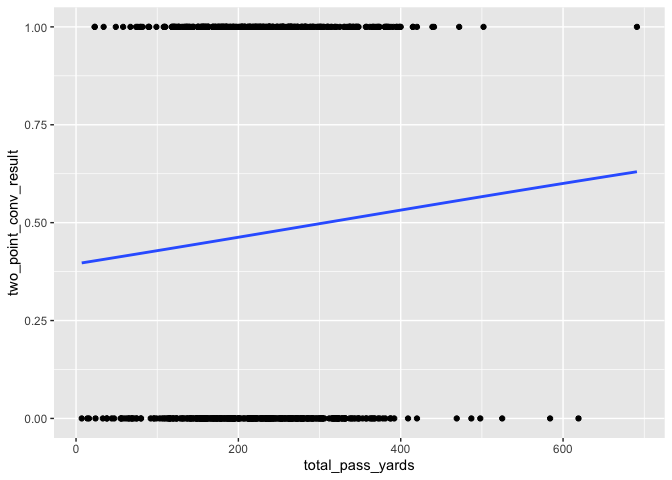
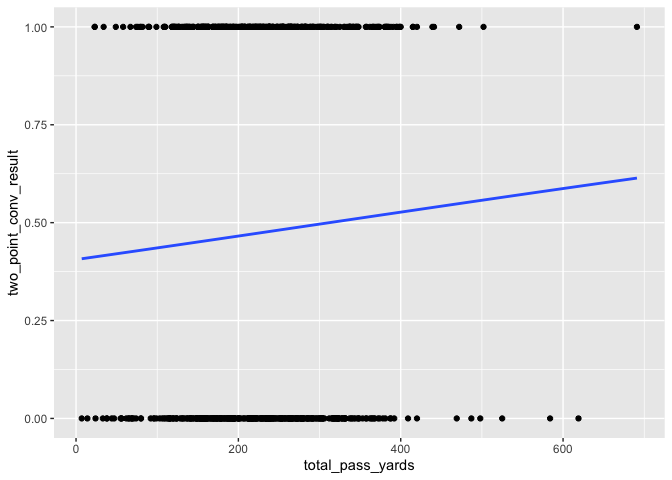
Added more viz to the modeling page, change expl_3 graph to be success rate instead of attempt

Changed region(s): [[0.4688, 0.3438, 0.9688, 0.4688], [0.125, 0.4688, 0.4375, 0.5625]]

diff --git a/logistic_mod.md b/logistic_mod.md
@@ -15,46 +15,40 @@ successful option than a pass play, we included numerous variables that
 quantify the team’s success with running the ball in the game up until
 the two-point conversion attempt. <br>
 
-    glm_twopt <- glm(two_point_conv_result ~ prop_runs_greater_than_2_yards + prop_passes_greater_than_2_yards + total_pass_yards + total_run_yards + num_runs + num_passes + avg_yds_per_play + completion_percentage + play_type + score_differential + avg_yards_per_run + avg_yards_per_pass, family = binomial(link= "logit"), data=two_points, na.action = na.exclude)
+    glm_twopt <- glm(two_point_conv_result ~ prop_runs_greater_than_2_yards + prop_passes_greater_than_2_yards + total_pass_yards + total_run_yards + num_runs + num_passes + avg_yds_per_play + completion_percentage + play_type + score_differential + avg_yards_per_run + avg_yards_per_pass + score_differential + game_seconds_remaining + third_down_conv_percentage, family = binomial(link= "logit"), data = two_points, na.action = na.exclude)
 
-    summary(glm_twopt)
+<br> We then used the stepAIC function to select the best predictors to
+use in our logistic regression model. This is the model that the stepAIC
+function selected.
+
+    summary(aic_glm)
 
     ## 
     ## Call:
-    ## glm(formula = two_point_conv_result ~ prop_runs_greater_than_2_yards + 
-    ##     prop_passes_greater_than_2_yards + total_pass_yards + total_run_yards + 
-    ##     num_runs + num_passes + avg_yds_per_play + completion_percentage + 
-    ##     play_type + score_differential + avg_yards_per_run + avg_yards_per_pass, 
-    ##     family = binomial(link = "logit"), data = two_points, na.action = na.exclude)
+    ## glm(formula = two_point_conv_result ~ total_pass_yards + num_passes + 
+    ##     play_type + game_seconds_remaining, family = binomial(link = "logit"), 
+    ##     data = two_points, na.action = na.exclude)
     ## 
     ## Deviance Residuals: 
     ##     Min       1Q   Median       3Q      Max  
-    ## -1.9193  -1.1011  -0.8825   1.1939   1.6745  
+    ## -1.6423  -1.0974  -0.8989   1.2077   1.5291  
     ## 
     ## Coefficients:
-    ##                                   Estimate Std. Error z value Pr(>|z|)   
-    ## (Intercept)                       0.940460   1.306441   0.720  0.47161   
-    ## prop_runs_greater_than_2_yards    0.497273   0.733317   0.678  0.49770   
-    ## prop_passes_greater_than_2_yards  0.549797   1.430611   0.384  0.70075   
-    ## total_pass_yards                  0.007786   0.004103   1.897  0.05776 . 
-    ## total_run_yards                   0.008572   0.005676   1.510  0.13103   
-    ## num_runs                         -0.033314   0.031230  -1.067  0.28610   
-    ## num_passes                       -0.051755   0.027959  -1.851  0.06415 . 
-    ## avg_yds_per_play                 -0.006595   0.265428  -0.025  0.98018   
-    ## completion_percentage            -1.028656   1.379796  -0.746  0.45596   
-    ## play_typerun                      0.505161   0.190867   2.647  0.00813 **
-    ## score_differential               -0.005140   0.008596  -0.598  0.54988   
-    ## avg_yards_per_run                -0.105996   0.119651  -0.886  0.37568   
-    ## avg_yards_per_pass               -0.096178   0.171378  -0.561  0.57466   
+    ##                          Estimate Std. Error z value Pr(>|z|)   
+    ## (Intercept)             0.2607147  0.4228716   0.617  0.53754   
+    ## total_pass_yards        0.0043591  0.0014478   3.011  0.00260 **
+    ## num_passes             -0.0390003  0.0134621  -2.897  0.00377 **
+    ## play_typerun            0.5290071  0.1831721   2.888  0.00388 **
+    ## game_seconds_remaining -0.0002490  0.0001637  -1.521  0.12828   
     ## ---
     ## Signif. codes:  0 '***' 0.001 '**' 0.01 '*' 0.05 '.' 0.1 ' ' 1
     ## 
     ## (Dispersion parameter for binomial family taken to be 1)
     ## 
-    ##     Null deviance: 936.50  on 676  degrees of freedom
-    ## Residual deviance: 910.45  on 664  degrees of freedom
+    ##     Null deviance: 932.65  on 673  degrees of freedom
+    ## Residual deviance: 910.22  on 669  degrees of freedom
     ##   (1 observation deleted due to missingness)
-    ## AIC: 936.45
+    ## AIC: 920.22
     ## 
     ## Number of Fisher Scoring iterations: 4
 
@@ -62,15 +56,15 @@ the two-point conversion attempt. <br>
 
 ### Model 1: Data Vis
 
-Uses a binomial modeling technique to graph relationship between
-probability of successful two-point conversion and changing x axis
+We use a binomial modeling technique to graph relationship between
+probability of successful two-point conversion and the predictors. <br>
+<br> **The probability of two point conversion success increases as the
+number of total passing yards increases.**
 
-    #Increasing probability of two point conversion success based on number of total passing yards
-    pass_yards_convprob <- ggplot(two_points, aes(x = total_pass_yards, y = two_point_conv_result)) + 
+    ggplot(two_points, aes(x = total_pass_yards, y = two_point_conv_result)) + 
       geom_point() + 
-      stat_smooth(method = "glm", method.args = list(family="binomial"), se = FALSE)
-
-    pass_yards_convprob
+      stat_smooth(method = "glm", method.args = list(family="binomial"), se = FALSE) +
+      labs(x = "Total Passing Yards (Up Until to the 2PT Conv. Attempt)", y = "Probability of 2PT Conv. Success")
 
     ## `geom_smooth()` using formula 'y ~ x'
 
@@ -78,4 +72,27 @@ probability of successful two-point conversion and changing x axis
 
     ## Warning: Removed 1 rows containing missing values (geom_point).
 
-![](logistic_mod_files/figure-markdown_strict/unnamed-chunk-4-1.png)
+![](logistic_mod_files/figure-markdown_strict/unnamed-chunk-6-1.png)
+<br> <br> <br> <br> **The probability of two point conversion success
+descreases as the number of passes thrown by the possession team
+increases.**
+
+    ggplot(two_points, aes(x = num_passes, y = two_point_conv_result)) + 
+      geom_point() + 
+      stat_smooth(method = "glm", method.args = list(family="binomial"), se = FALSE) +
+      labs(x = "Number of Pass Attempts (Up Until to the 2PT Conv. Attempt)", y = "Probability of 2PT Conv. Success")
+
+    ## `geom_smooth()` using formula 'y ~ x'
+
+![](logistic_mod_files/figure-markdown_strict/unnamed-chunk-7-1.png)
+<br> <br> <br> <br> **The probability of two point conversion success
+descreases when there is more time remaining in the game.**
+
+    ggplot(two_points, aes(x = game_seconds_remaining/60, y = two_point_conv_result)) + 
+      geom_point() + 
+      stat_smooth(method = "glm", method.args = list(family="binomial"), se = FALSE) +
+      labs(x = "Game Minutes Remaining (At the 2PT Conv. Attempt)", y = "Probability of 2PT Conv. Success")
+
+    ## `geom_smooth()` using formula 'y ~ x'
+
+![](logistic_mod_files/figure-markdown_strict/unnamed-chunk-8-1.png)

diff --git a/exploration_3.md b/exploration_3.md
@@ -1,5 +1,7 @@
 <br> <br>
 
-### Figure 3: Proportion of Two-Point Conversion Attempts Based on Score Differential and Game Time Remaining
+### Figure 3: Success Rate of Two-Point Conversions Based on Score Differential and Game Time Remaining
 
-Testing testing 123
+This figure explores the how the success rate of two-point conversions
+depending on score diffential and minutes remaining in the match, which
+are two commonly use predictors to decide whether to go for two or not.

diff --git a/exploration_2.md b/exploration_2.md
@@ -4,5 +4,5 @@
 
 This figure explores the breakdown of play type and success rates of
 two-point conversions by year. As you can see, run plays have had a
-higher success rate in two-point conversions than pass plays have for
-every year except 2014.
+higher success rate in two-point conversion attempts than pass plays
+have for every year except 2014.
